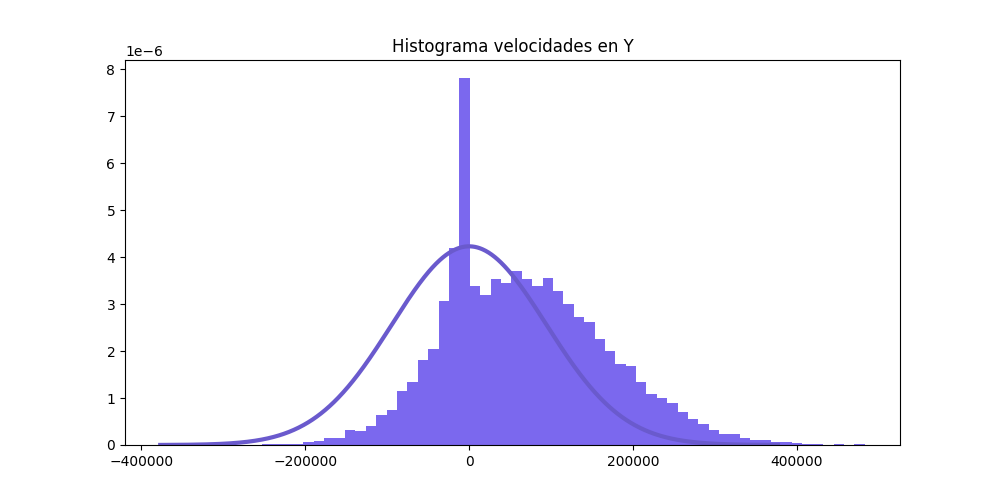
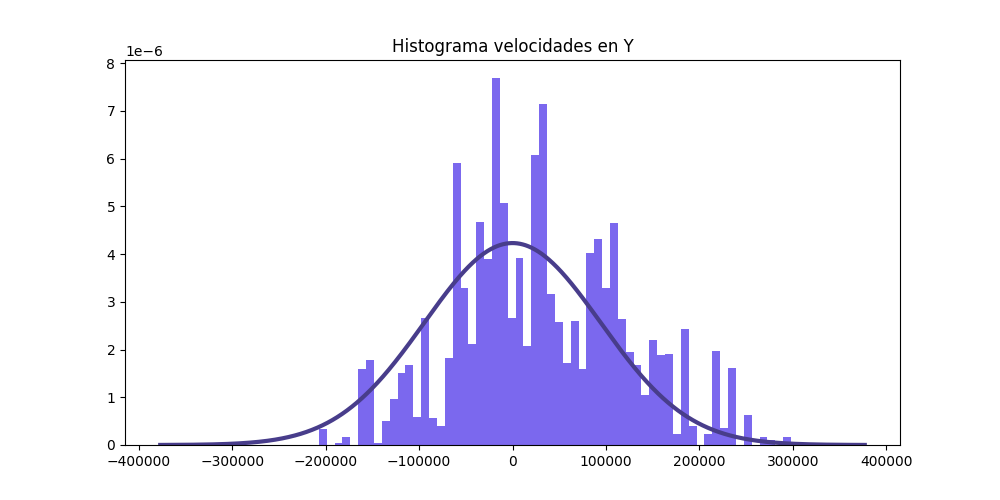
Actualizacion conductividad

diff --git a/MODELO_DRUDE_V3.py b/MODELO_DRUDE_V3.py
@@ -150,7 +150,7 @@ for i in range(N):
 
 dt=(2*limx/random_vel2(2))/100 #  0.00028310447443648343
 
-tiempo_total =dt*10000  # Tiempo total del movimiento (segundos)
+tiempo_total =dt*10000*3  # Tiempo total del movimiento (segundos)
 
 num_puntos = int(tiempo_total/dt)  # Número de puntos en el dataframe  10 000
 #dt=tiempo_total/num_puntos
@@ -264,17 +264,23 @@ plt.figure(figsize=(10, 5))
 plt.title('Histograma velocidades en X para el final')
     #Agrega una linea vertical en la velocidad de deriva
 plt.axvline(x=promvx, color='darkblue', linestyle='--', linewidth=3, label='Velocidad de deriva')
-VX= np.linspace( promvx- 4*velocidad_cuadratica_promedio, promvx+4*velocidad_cuadratica_promedio, 1000)
+VX= np.linspace( min(histogramaxfinal), max(histogramaxfinal), 1000)
 DATAVX= norm.pdf(VX, promvx, velocidad_cuadratica_promedio)
 plt.plot(VX, DATAVX, 'darkblue', linewidth=2)
 plt.hist(histogramaxfinal, bins=60, density=True,color="royalblue")
 plt.legend()
 plt.savefig("Histograma_Vel_X_TODO_T")
 
-
-print(f"La densidad de electrones en el sistema es {N/(2*limx*2*limy)} electrones por picometro cuadrado")
+#Densidad de electrones
+densidad_e=N/(2*limx*2*limy)
+print(f"La densidad de electrones en el sistema es {densidad_e} electrones por picometro cuadrado")
 print(f"El campo electrico fue de {E[0]} V/pm en dirección x")
 print(f"El tiempo de relajación promedio tau fue {np.mean(prom_tau)} segundos")
+print(f"El tiempo de relajación promedio a partir de la velocidad de deriva y el campo electrico {-promvx*m_e/(E*constants.elementary_charge)} segundos")
+print(f"La conductividad del material a partir del tau fue de {N/(2*limx*2*limy)*constants.elementary_charge**2*np.mean(prom_tau)/constants.electron_mass}")
+print(f"La conductividad del material a partir de la velocidad de deriva fue fue de {N/(2*limx*2*limy)*constants.elementary_charge**2*np.mean(prom_tau)/constants.electron_mass}")
+print(f"La conductividad del material a partir J/E 1 {densidad_e*constants.elementary_charge*promvx/E}")
+print(f"La conductividad del material a partir J/E 2 {contador/(2*limx*E)}")
 print(f"El promedio de velocidades fue {velprom} m/s")
 print(f"En promedio la velocidad de deriva fue {promvx} m/s")
 print(f"La velocidad cuadratica media fue de {promv2} m/s y deberia ser {random_vel2(2)} m/s, la discrepancia porcentual es de {np.abs(promv2-random_vel2(2,promvx))/random_vel2(2,promvx)*100}%")
